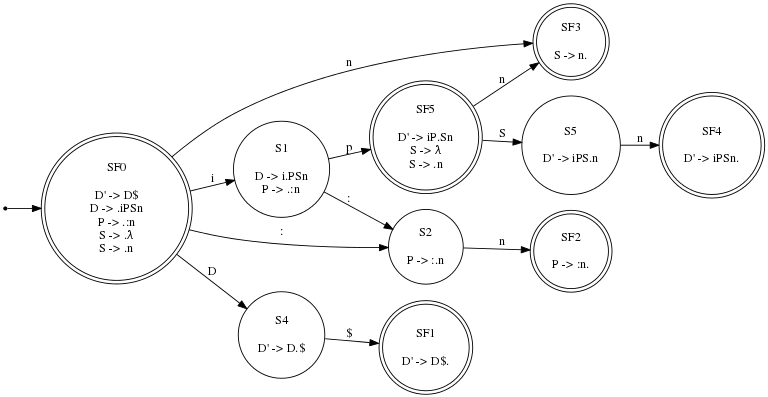
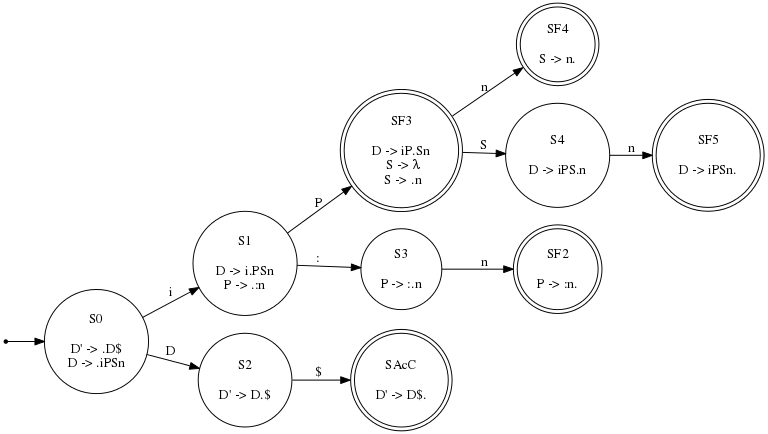
el 4 subido

diff --git a/Automatas y lenguajes/tex/ejerciciosHoja3/HOJA3.tex b/Automatas y lenguajes/tex/ejerciciosHoja3/HOJA3.tex
@@ -140,23 +140,23 @@ Para trabajar con esta gramática primero añadimos la regla: D' ::= D\$, con lo
 \hline
 Estado & i & n & : & \$ & D & P & S\\
 \hline
-SF0 & \textcolor{red}{r3/d1} & \textcolor{red}{r3/dF3} & \textcolor{red}{r3/d2} & r3 & d3 &  & \\
+S0 & d1 & &  &  & 2 &  & \\
 \hline
-SF3 & r4 & r4 & r4 & r4 &  &   & \\
+S1 &  &  & d3 &  &  & F3 & \\
 \hline
-S1 &  &  & d2 &  &  & dF5 &\\
+S2 &  &  &  & dacc &  & F5 &\\
 \hline
-S4 &  &  &  & dacc &  &  & \\
+SF3 & r3 & \textcolor{red}{r3/df4} & r3 & r3 &  &  & 4\\
 \hline
-SF5 & r3 &  \textcolor{red}{r3/dF3} & r3 & r3 & d5 &  & \\
+S3 &  & dF2 & &  &  &  & \\
 \hline
-S2 &  & dF2 &  &  &  &  &\\
+SF4 & r4  & r4  & r4 & r4 & &  &\\
 \hline
-S5 &  & dF4  &  &  & &  &\\
+S4 &  & dF5 &  &  &  &  & \\
 \hline
 SF2 & r2 & r2 & r2 & r2 &  &  & \\
 \hline
-SF4 & r1 & r1 & r1 & r1 &  &  & \\
+SF5 & r1 & r1 & r1 & r1 &  &  & \\
 \hline
 \end{tabular}
 \ppart \textbf{No se trata de una gramática LR(0)} ya que hay ocasiones en las que observamos un conflico desplazamiento-reducción. Por ejemplo, en el estado inicial podemos reducir la S o desplazar según la entrada dada.
@@ -174,23 +174,23 @@ Sin embargo, \textbf{tampoco se trata de una gramática SLR(1)} ya que si forzam
 \hline
 Estado & i & n & : & \$ & D & P & S\\
 \hline
-SF0 & d1 & \textcolor{red}{r3/dF3} & d2 & r3 & d3 &  & \\
+S0 & d1 & &  &  & 2 &  & \\
 \hline
-SF3 &  & r4 &  &  &  &   & \\
+S1 &  &  & d3 &  &  & F3 & \\
 \hline
-S1 &  &  & d2 &  &  & dF5 &\\
+S2 &  &  &  & dacc &  & F5 &\\
 \hline
-S4 &  &  &  & dacc &  &  & \\
+SF3 &  & \textcolor{red}{r3/df4} &  &  &  &  & 4\\
 \hline
-SF5 &  &  \textcolor{red}{r3/dF3} &  &  & d5 &  & \\
+S3 &  & dF2 & &  &  &  & \\
 \hline
-S2 &  & dF2 &  &  &  &  &\\
+SF4 &   & r4  &  &  & &  &\\
 \hline
-S5 &  & dF4  &  &  & &  &\\
+S4 &  & dF5 &  &  &  &  & \\
 \hline
 SF2 &  & r2 &  &  &  &  & \\
 \hline
-SF4 &  &  &  & r1 &  &  & \\
+SF5 &  &  &  & r1  &  &  & \\
 \hline
 \end{tabular}
 
